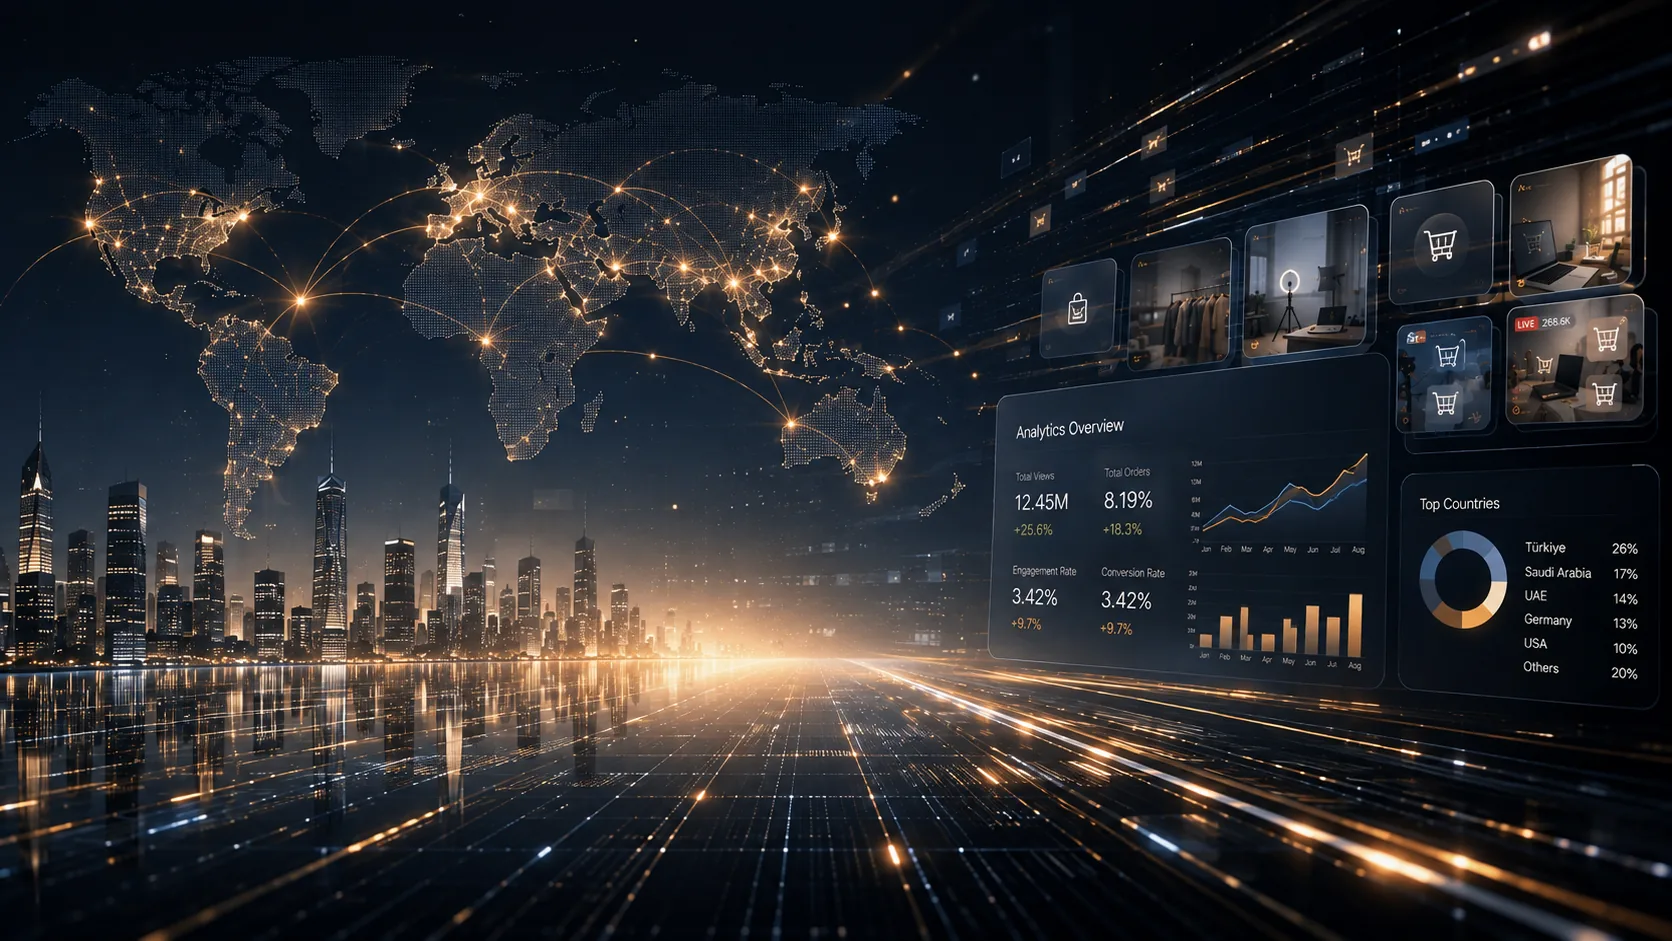
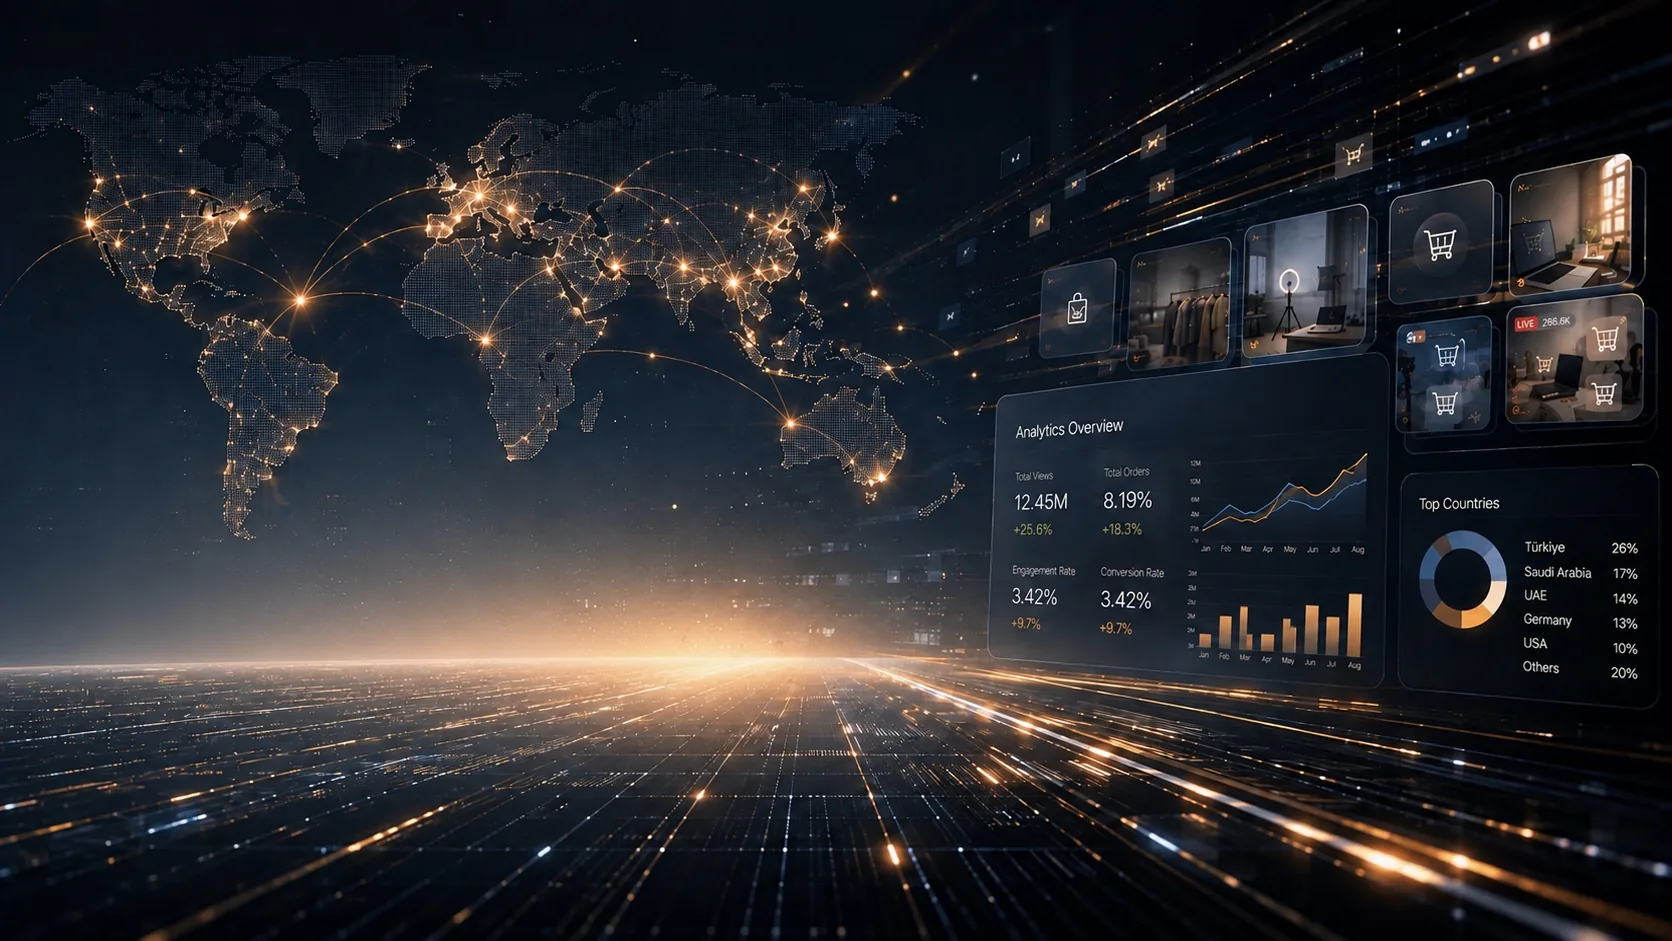
Refresh Asianode marketing imagery

diff --git a/src/shared/data/pages/home.data.tsx b/src/shared/data/pages/home.data.tsx
@@ -26,8 +26,8 @@ import {
   TestimonialsProps,
 } from '../../types';
 import globalCommerceHeroImg from '~/assets/images/global-commerce-hero.webp';
-import marketActivationImg from '~/assets/images/cross-border-market-activation.png';
-import creatorSocialCommerceImg from '~/assets/images/creator-social-commerce.png';
+import marketEntryConsultationImg from '~/assets/images/market-entry-consultation.webp';
+import creatorContentProductionImg from '~/assets/images/creator-content-production.webp';
 import crossBorderFulfilmentImg from '~/assets/images/cross-border-fulfilment.png';
 import nextJsLogo from '~/assets/images/nextjs-logo.png';
 import reactLogo from '~/assets/images/react-logo.png';
@@ -128,7 +128,7 @@ export const contentHomeOne: ContentProps = {
     { title: 'Connect influence to commercial results', description: 'Coordinate discovery, conversion, and channel activity rather than treating them as separate initiatives.' },
     { title: 'Operate with a local team', description: 'Gain a dependable partner for day-to-day market execution and collaboration.' },
   ],
-  image: { src: marketActivationImg, alt: 'Cross-border e-commerce market activation in Istanbul' },
+  image: { src: marketEntryConsultationImg, alt: 'Asianode team discussing a brand market-entry strategy for Türkiye' },
 };
 
 export const contentHomeTwo: ContentProps = {
@@ -147,7 +147,7 @@ export const contentHomeTwo: ContentProps = {
     { title: 'Commercial opportunity development' },
   ],
   isReversed: true,
-  image: { src: creatorSocialCommerceImg, alt: 'Creator preparing a social-commerce product demonstration' },
+  image: { src: creatorContentProductionImg, alt: 'Creator planning and producing social-commerce beauty content' },
 };
 
 export const stepsHome: StepsProps = {
@@ -215,7 +215,7 @@ export const teamHome: TeamProps = {
   },
   teams: [
     {
-      name: 'Chunjian Yang',
+      name: 'ChunJian Yang',
       occupation: 'Founder & CEO',
       image: { src: teamMemberOneImg, alt: 'Asianode team member' },
       items: [
@@ -225,7 +225,7 @@ export const teamHome: TeamProps = {
       ],
     },
     {
-      name: 'Zongsheng Zhou',
+      name: 'ZongSheng Zhou',
       occupation: 'MCN General Manager Marketing',
       image: { src: teamMemberTwoImg, alt: 'Asianode team member' },
       items: [
